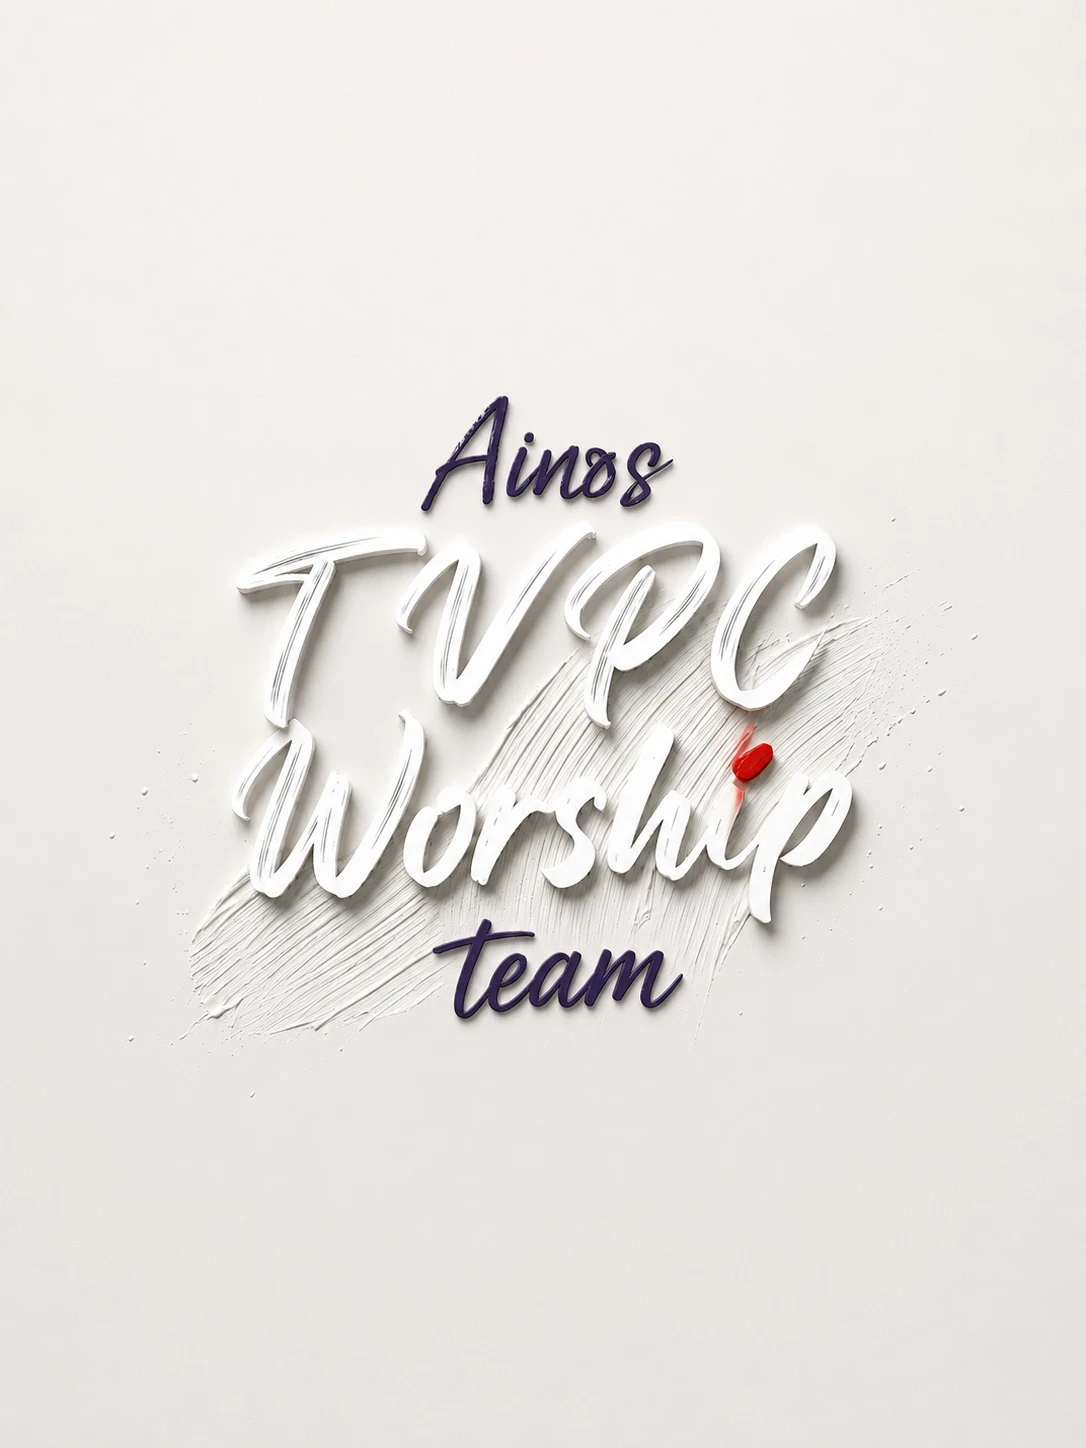
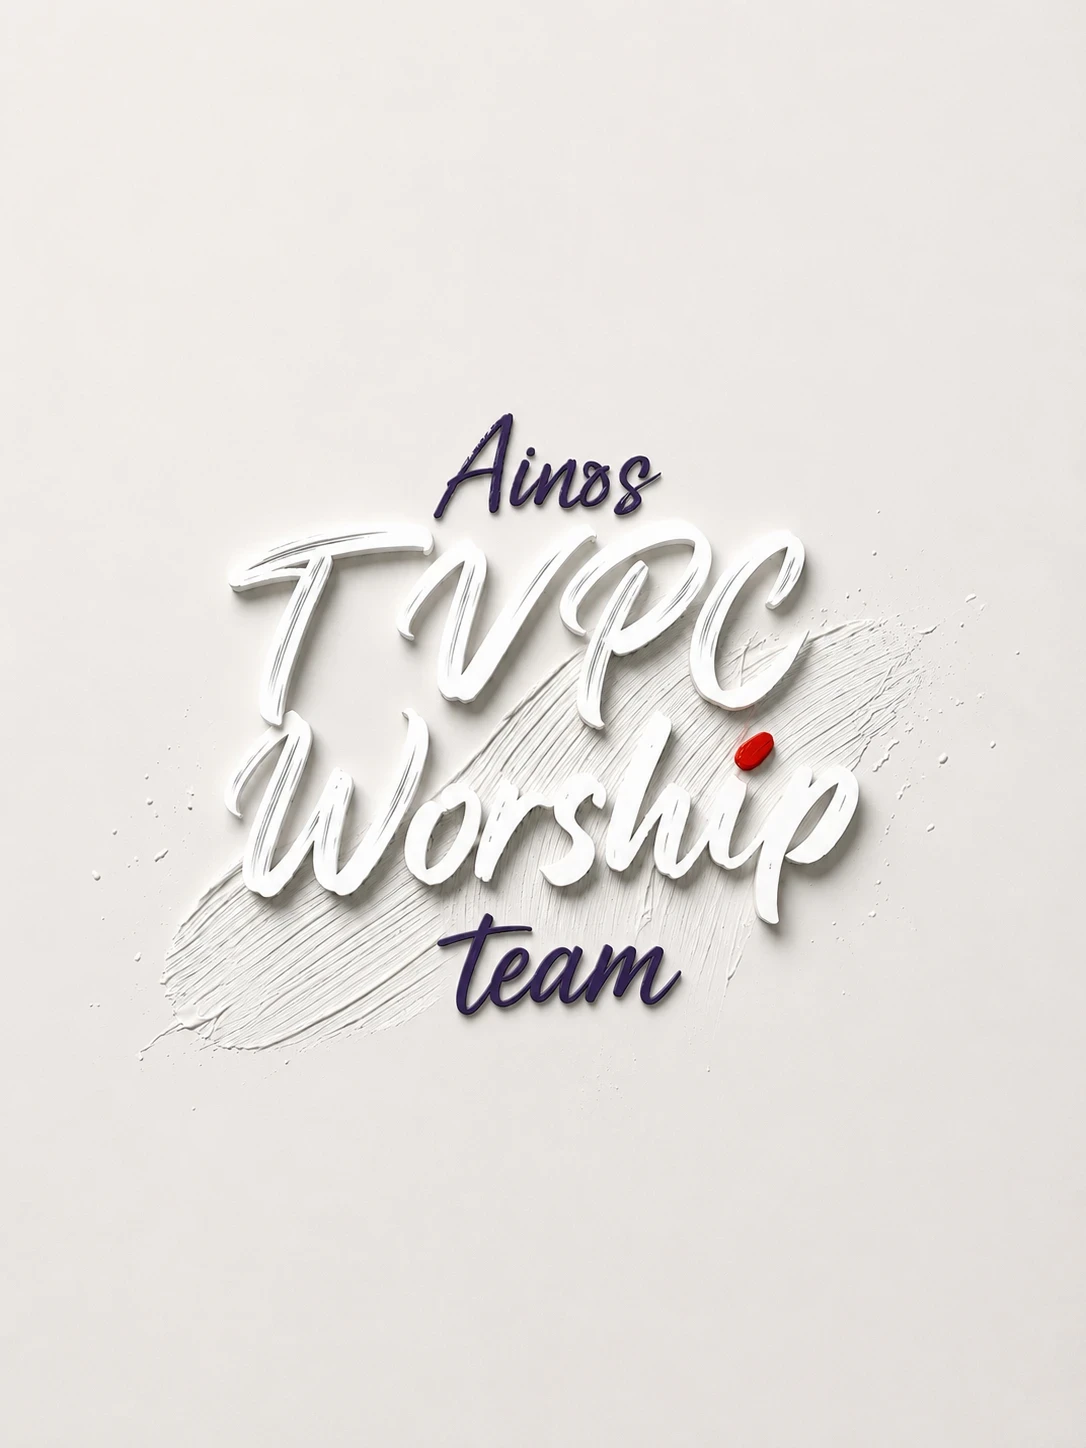
Home: new portrait bg + YouTube button above 악보 tab (v3.535)
https://claude.ai/code/session_01RpDoybcSjfb8YFvLTDiRWW

Changed region(s): [[0.1519, 0.2797, 0.8508, 0.7148]]

diff --git a/src/App.jsx b/src/App.jsx
@@ -19,7 +19,7 @@ import {
 } from "firebase/firestore";
 
 /* ── App version ── */
-const APP_VERSION = "3.534";
+const APP_VERSION = "3.535";
 const localDateStr = (d = new Date()) =>
   `${d.getFullYear()}-${String(d.getMonth()+1).padStart(2,'0')}-${String(d.getDate()).padStart(2,'0')}`;
 
@@ -13423,14 +13423,14 @@ function HomeSplashScreen() {
         background:"linear-gradient(to bottom, rgba(0,0,0,0.25) 0%, transparent 100%)",
         pointerEvents:"none", zIndex:1,
       }} />
-      {/* YouTube channel link */}
+      {/* YouTube — fixed above 악보 tab (3rd of 5, center) */}
       <a
         href="https://m.youtube.com/playlist?list=PLbDbHDX38DM2DLSk57Ei6BGg-mvzs_1HZ"
         target="_blank"
         rel="noopener noreferrer"
         style={{
           position:"fixed",
-          bottom:"calc(76px + env(safe-area-inset-bottom))",
+          bottom:"calc(58px + env(safe-area-inset-bottom))",
           left:"50%", transform:"translateX(-50%)",
           display:"flex", alignItems:"center", gap:6,
           background:"rgba(255,255,255,0.75)",